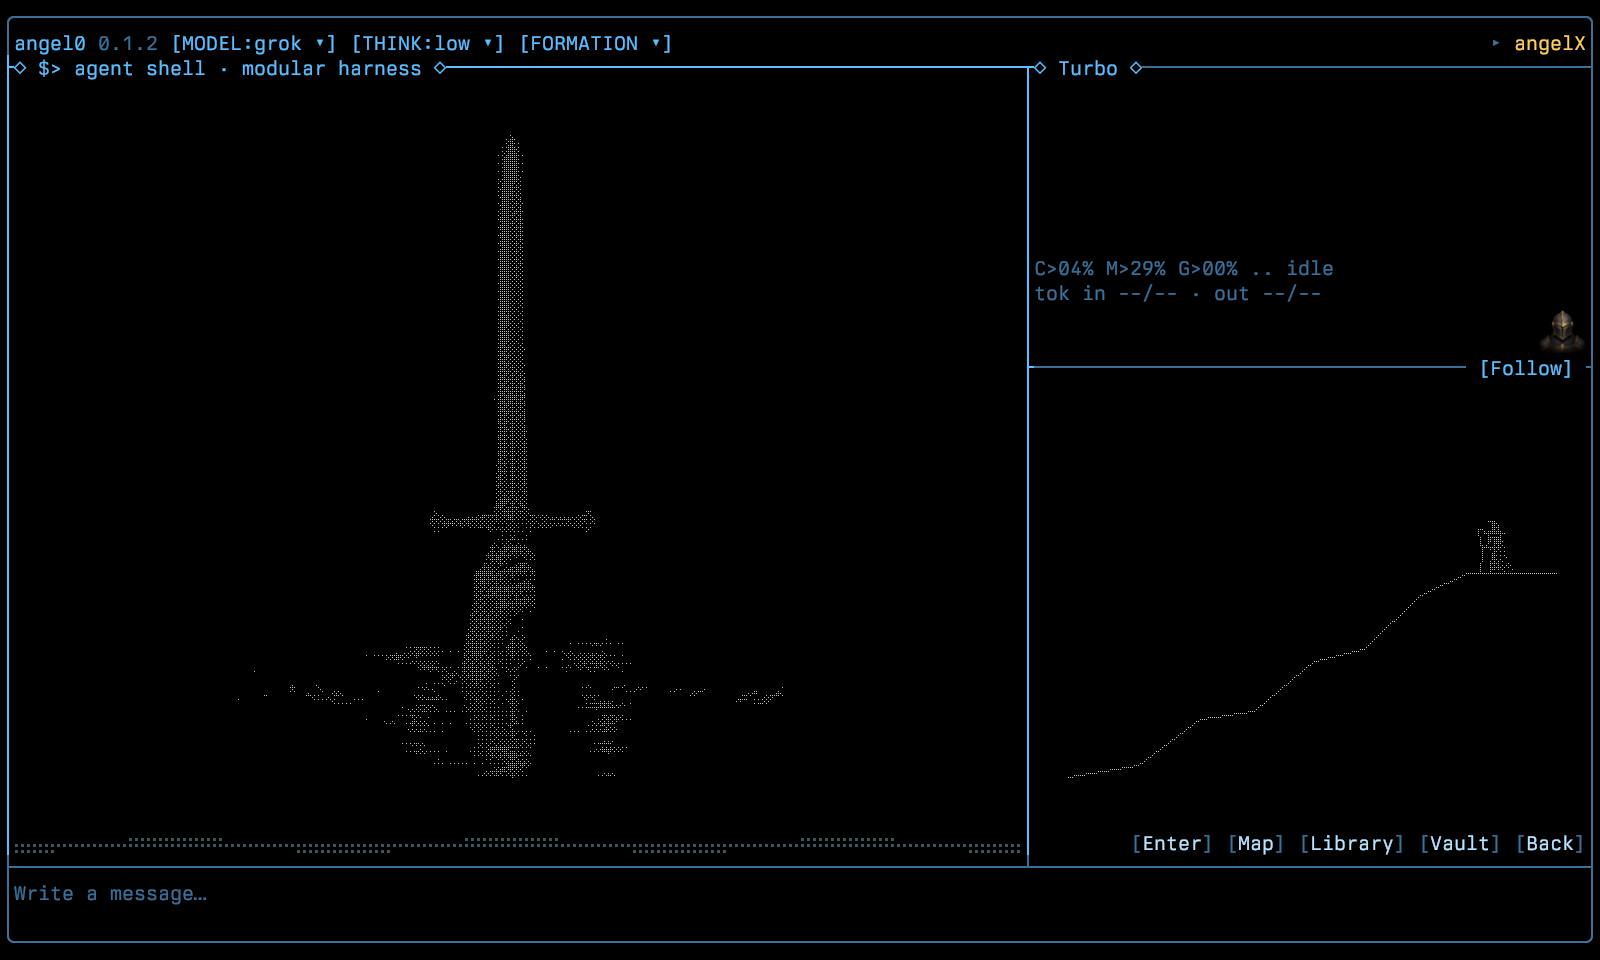
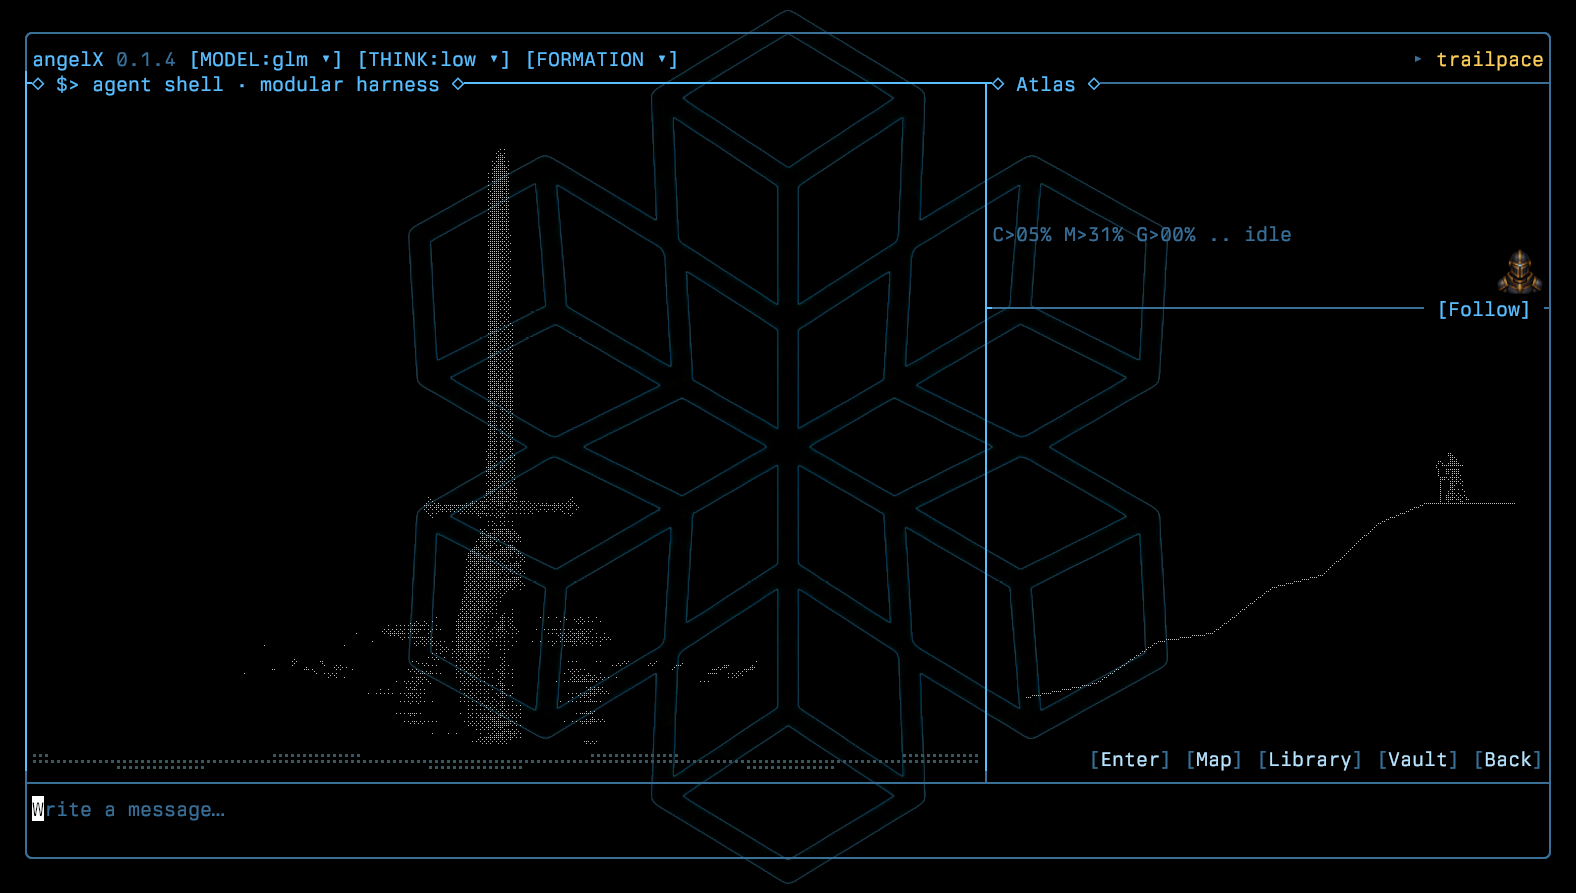
docs: README shows what angelX is and how it works
Fresh 0.1.4 screenshots from a live GLM-5.3 turn: startup, the task, model
picker, approval and edit capsules, diff, receipts, goal and loop workshop,
formations, context, commands and world view. Add field results and the GPU
MODE Cholesky placing, publish the Yukon field results without internal notes,
and thank Yukon.

diff --git a/README.md b/README.md
@@ -1,10 +1,14 @@
 # angelX
 
-angelX is a cyberdynamic tool for explorers. It is a Rust terminal workspace
-for coding and research agents. It brings model teams, code tools, persistent
-project memory, and measured experiments together in one cockpit.
+angelX is a terminal coding agent. It works inside your repository with the
+models you choose, asks before it runs a command or edits a file, checks its
+work before it reports done, and keeps what it learns about your project.
 
-![Excalibur raised, with the wizard beside it](docs/images/intro.png)
+Field proven in kernel and cryptography work:
+[GPU MODE Cholesky · 2nd](https://www.gpumode.com/leaderboard/776?tab=rankings) ·
+[100+ records on Yukon](docs/yukon-field-results.md)
+
+![angelX starting on GLM-5.3: Excalibur raised, the knight on the summit](docs/images/intro.png)
 
 ```sh
 # Requires Linux x86_64, Rust/Cargo, C/C++ tools, Bash, Node.js and Python 3.
@@ -13,6 +17,54 @@ git clone https://github.com/newjordan/angelX.git
 cd angelX
 ./bin/angelX
 ```
+
+[Model setup](docs/MODELS.md) · [/commands](docs/COMMANDS.md) ·
+[Feature evidence](docs/FEATURES.md) · [Attributions](THIRD_PARTY_NOTICES.md) · [MIT](LICENSE)
+
+## How it works
+
+![GLM-5.3 finds and fixes a unit bug in a small Rust crate, then shows the tests passing](docs/images/task.png)
+
+**1 · Choose a model.** `/model` lists every connected route with its thinking level; `/think` changes the level.
+
+![Model picker with GLM-5.3 selected](docs/images/ui/model-picker.png)
+
+**2 · Approve what it does.** Commands and edits arrive as action capsules: approve one (`y`), approve the rest of the turn (`a`), or deny (`n`).
+
+![Approval capsule for a shell command](docs/images/ui/approval.png)
+
+**3 · Content-checked edits.** Each edit is anchored to the file's current content and shows its byte change before it lands. `/diff` shows the result.
+
+<p>
+  <img alt="Edit approval: replace once in src/lib.rs, 32 B to 30 B" src="docs/images/ui/edit-approval.png" width="49%">
+  <img alt="The one-line fix in /diff" src="docs/images/ui/diff.png" width="49%">
+</p>
+
+**4 · Checked before done.** The agent runs the checks and reports with receipts: every tool call, its time and the model route.
+
+![Action receipts and the final answer with the tests passing](docs/images/ui/receipts.png)
+
+**5 · Longer work.** `/goal` sets a durable objective with acceptance criteria and a check. `/loop` runs it within time, iteration and token limits.
+
+<p>
+  <img alt="A goal with acceptance criteria and a verify command" src="docs/images/ui/goal.png" width="49%">
+  <img alt="Loop workshop: time, iterations and token cap" src="docs/images/ui/loop-workshop.png" width="49%">
+</p>
+
+## In the cockpit
+
+<table>
+  <tr>
+    <td width="50%"><img alt="Formation roster" src="docs/images/ui/formation.png"><br><b>Formations</b> · model teams, from a lone coordinator to a full roster.</td>
+    <td width="50%"><img alt="Context budget" src="docs/images/ui/context.png"><br><b>Context budget</b> · where the window goes; compaction runs automatically.</td>
+  </tr>
+  <tr>
+    <td width="50%"><img alt="Command help and completion" src="docs/images/ui/command-picker.png"><br><b>Commands</b> · <code>/help</code> and Tab completion for every command.</td>
+    <td width="50%"><img alt="World view beside the code" src="docs/images/world.png"><br><b>World view</b> · the Keep courtyard beside your code.</td>
+  </tr>
+</table>
+
+## Features
 
 - **Models and formations** — Choose models and thinking levels, configure teams, and run agent graphs.
 - **Repository tools** — Search files, inspect symbols, follow definitions, and review diffs.
@@ -26,9 +78,6 @@ cd angelX
 - **Research loops** — Use Sloptomizer suggestions, Deli deliberation, and paired experiments.
 - **Measured benchmarks** — Calculate measured changes from paired benchmark samples.
 - **Adventure world model TUI** — Introducing the early stages of Cyberdynamic world tui for reviewing work, presenting data graphs, adventure, and model behavior.
-
-[Model setup](docs/MODELS.md) · [/commands](docs/COMMANDS.md) ·
-[Feature evidence](docs/FEATURES.md) · [Attributions](THIRD_PARTY_NOTICES.md) · [MIT](LICENSE)
 
 ## Benchmarks
 
@@ -96,7 +145,7 @@ Research and public work that informed Angel:
 - [OpenScience](https://github.com/synthetic-sciences/openscience) — Synthetic Sciences; literature-search design. Search metadata comes from [OpenAlex](https://openalex.org), [Crossref](https://www.crossref.org), [Semantic Scholar](https://www.semanticscholar.org) and [Europe PMC](https://europepmc.org).
 
 Code and tooling credits include [OpenAI Codex](https://github.com/openai/codex),
-[xAI's Grok CLI](https://github.com/superagent-ai/grok-cli),
+[Grok CLI](https://github.com/superagent-ai/grok-cli),
 [oh-my-pi](https://github.com/can1357/oh-my-pi),
 [DeepSeek-Reasonix](https://github.com/esengine/DeepSeek-Reasonix),
 [Hermes Agent](https://github.com/NousResearch/hermes-agent),
@@ -111,3 +160,15 @@ File-tool interface references include [Claude Code](https://github.com/anthropi
 [aider](https://github.com/Aider-AI/aider) and [OpenHands](https://github.com/OpenHands/OpenHands).
 [Attributions](THIRD_PARTY_NOTICES.md) records implementation links, authors and
 retained licenses; research inspiration and incorporated code are identified separately.
+
+## Field results
+
+Field proven: 100+ records on public research leaderboards, with first-place
+results in kernel optimization, LLM inference and cryptography research, and
+2nd place on the [GPU MODE Cholesky](https://www.gpumode.com/leaderboard/776?tab=rankings)
+leaderboard. [Yukon field results](docs/yukon-field-results.md)
+
+## Special thanks
+
+[Yukon](https://www.yukon.org), the platform for open frontier research, where
+angelX set its leaderboard records.

diff --git a/docs/images/README.md b/docs/images/README.md
@@ -1,21 +1,23 @@
 # Usage images
 
-Unedited captures of the running terminal cockpit in Kitty, 1600 × 960.
-The startup image uses a fresh workspace with Grok selected and no prompt
-submitted. The other captures use the offline `practice` route and local
-commands. The arithmetic patch was prepared outside the model. [Capture details and hashes](provenance.json).
+Unedited captures of the running cockpit in Kitty. The task images come from
+one live GLM-5.3 turn fixing a planted bug in a small Rust crate; each action
+was approved by hand. Files under `ui/` are crops of those captures.
+[Capture details and hashes](provenance.json).
 
 | Image | Shown behavior |
 |---|---|
-| [Startup](intro.png) | Raised Excalibur and the wizard on the summit. |
-| [Code diff](cockpit.png) | `/diff` displays a real local Rust change. |
-| [Command completion](command-picker.png) | `/help`, then `/` and `Tab`. |
-| [World and room view](world.png) | `/world enter` opens the Keep courtyard alongside the code diff. |
-
-![Excalibur startup with the wizard beside it](intro.png)
-
-![Local Rust diff](cockpit.png)
-
-![Slash-command completion](command-picker.png)
-
-![Native room view alongside code](world.png)
+| [Startup](intro.png) | Fresh launch: Excalibur raised, the knight on the summit. |
+| [Task](task.png) | GLM-5.3 finds and fixes the bug and shows the tests passing. |
+| [Model picker](ui/model-picker.png) | `/model` with each route's thinking level. |
+| [Thinking picker](ui/think-picker.png) | `/think` for the selected route. |
+| [Approval](ui/approval.png) | An action capsule waiting for approval. |
+| [Edit approval](ui/edit-approval.png) | An anchored edit with its byte change. |
+| [Receipts](ui/receipts.png) | Action receipts, the turn summary and the answer. |
+| [Diff](ui/diff.png) | `/diff` after the fix. |
+| [Goal](ui/goal.png) | `/goal` with criteria and a verify command. |
+| [Loop workshop](ui/loop-workshop.png) | `/loop` limits for the active goal. |
+| [Formations](ui/formation.png) | `/moa` formation roster. |
+| [Context](ui/context.png) | `/context` window occupancy. |
+| [Commands](ui/command-picker.png) | `/help`, then `/` and `Tab`. |
+| [World view](world.png) | `/world enter` beside the diff. |
